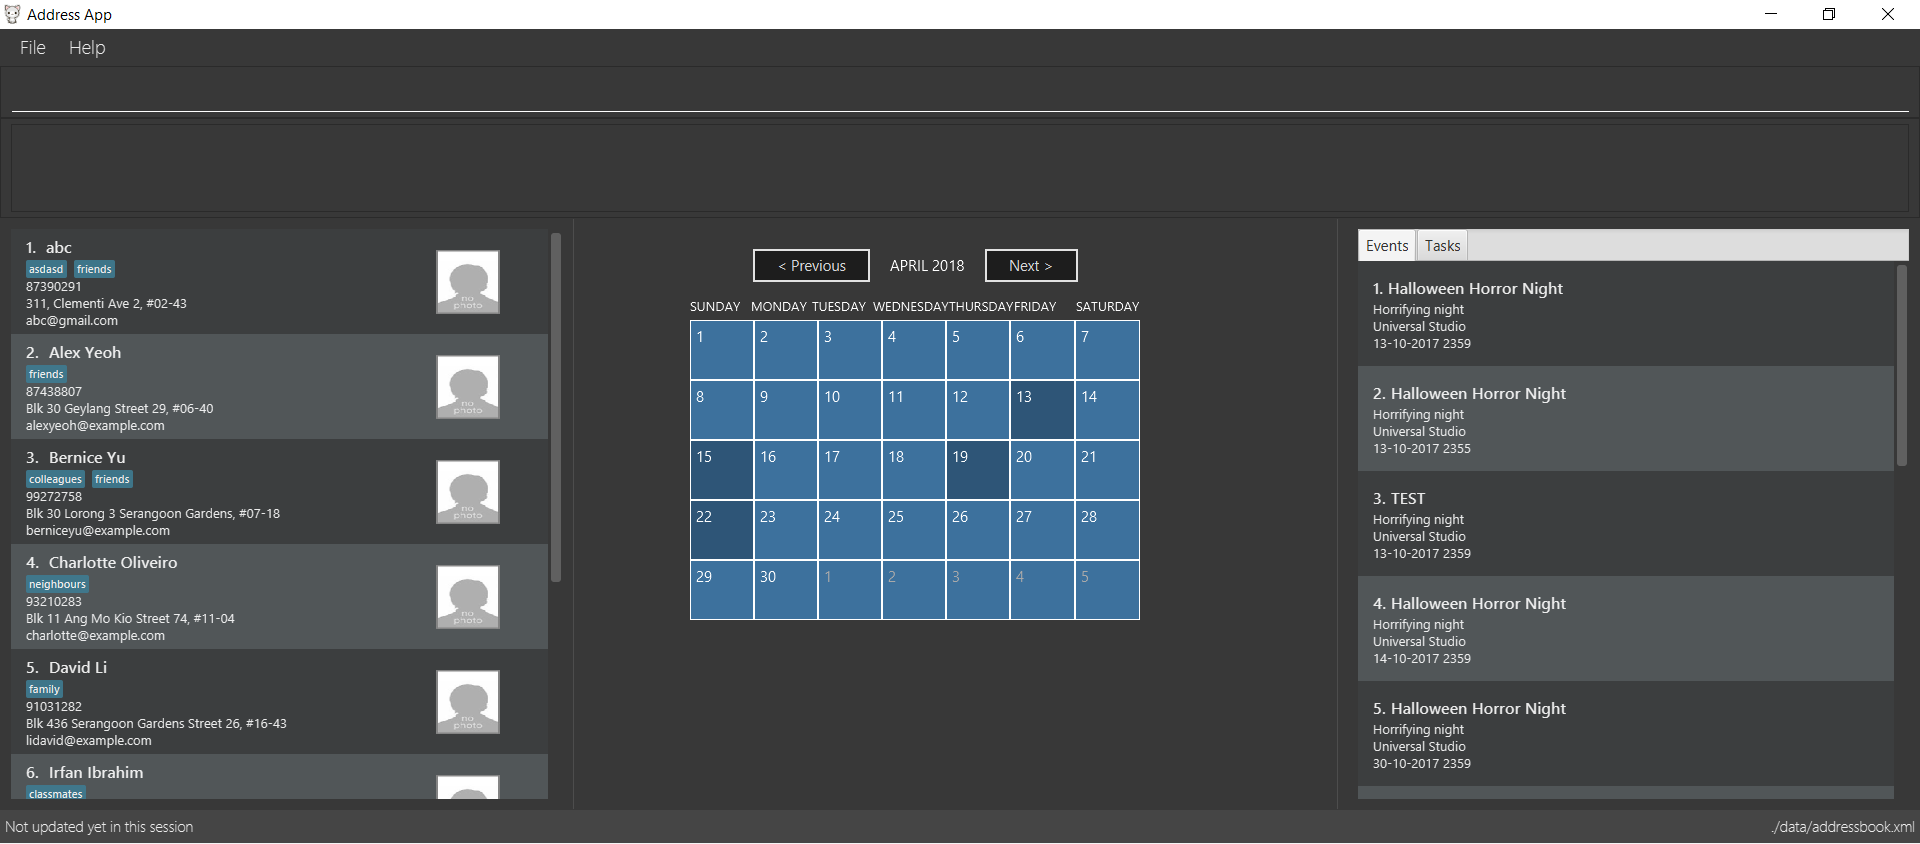
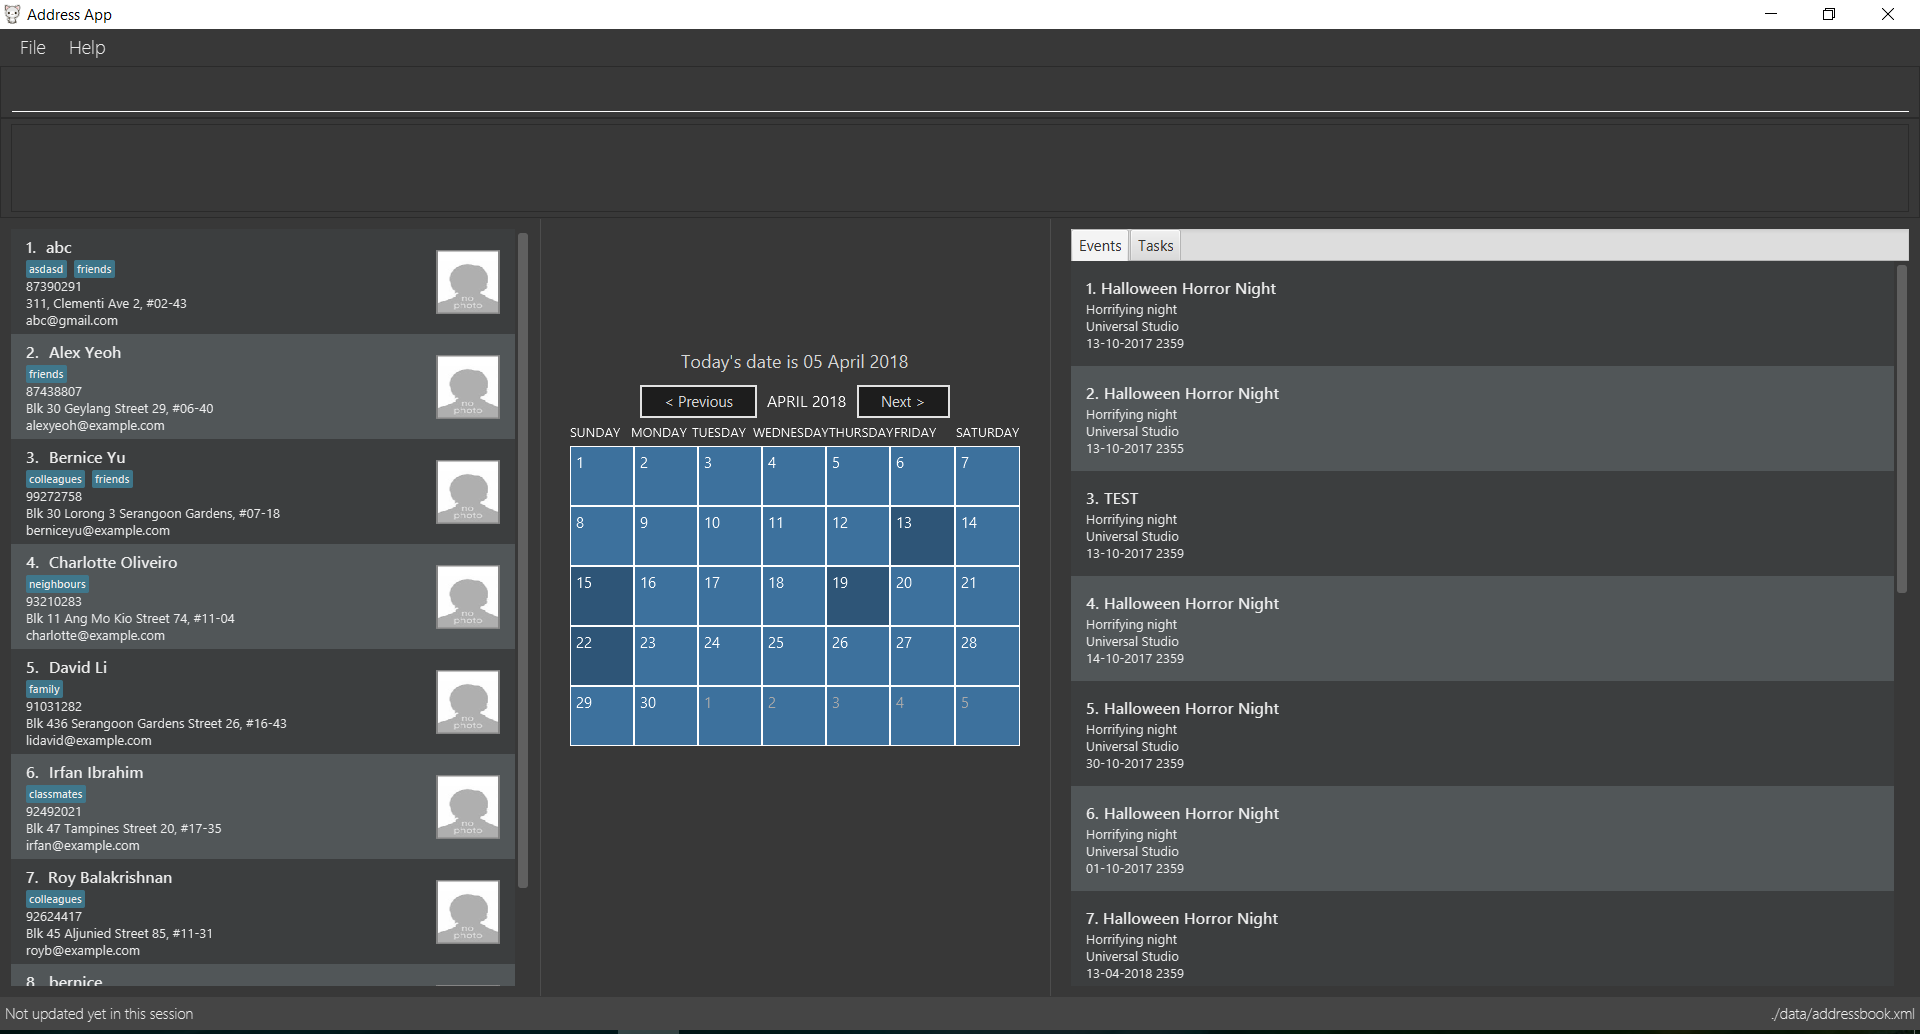
debugging ui again

diff --git a/src/main/java/seedu/address/ui/CalendarView.java b/src/main/java/seedu/address/ui/CalendarView.java
@@ -87,7 +87,7 @@ public class CalendarView {
         Button nextMonth = new Button("Next >");
         nextMonth.setOnAction(e -> nextMonth());
         HBox titleBar = new HBox(previousMonth, calendarTitle, nextMonth);
-        HBox.setMargin(calendarTitle, new Insets(0, 20, 0, 20));
+        HBox.setMargin(calendarTitle, new Insets(0, 10, 0, 10));
         titleBar.setAlignment(Pos.BASELINE_CENTER);
 
         // Populate calendar with the appropriate day numbers
@@ -97,9 +97,8 @@ public class CalendarView {
         DateTimeFormatter dateTimeFormat = DateTimeFormatter.ofPattern("dd MMMM yyyy");
         Button calendarDateTime = new Button("Today's date is " + dateTimeFormat.format(LocalDate.now()));
         calendarDateTime.setStyle("-fx-border-color: transparent; "
-                + "-fx-background-color: transparent; -fx-font-size: 20");
+                + "-fx-background-color: transparent; -fx-font-size: 18");
         calendarDateTime.setOnAction(e -> originalYearMonth());
-        calendarDateTime.setFont(new Font("Serif", 24));
         HBox calendarDtBar = new HBox(calendarDateTime);
         calendarDtBar.setAlignment(Pos.BASELINE_CENTER);
 
@@ -111,9 +110,9 @@ public class CalendarView {
         welcomeMessageBar.setAlignment(Pos.BASELINE_CENTER);
 
         // Creates the calendar view
-        view = new VBox(welcomeMessageBar, calendarDtBar, titleBar, dayLabels, calendar);
-        VBox.setMargin(calendarDtBar, new Insets(0, 0, 15, 0));
-        VBox.setMargin(titleBar, new Insets(0, 0, 15, 0));
+        view = new VBox(calendarDtBar, titleBar, dayLabels, calendar);
+        VBox.setMargin(calendarDtBar, new Insets(0, 0, 5, 0));
+        VBox.setMargin(titleBar, new Insets(0, 0, 5, 0));
     }
 
     /**
